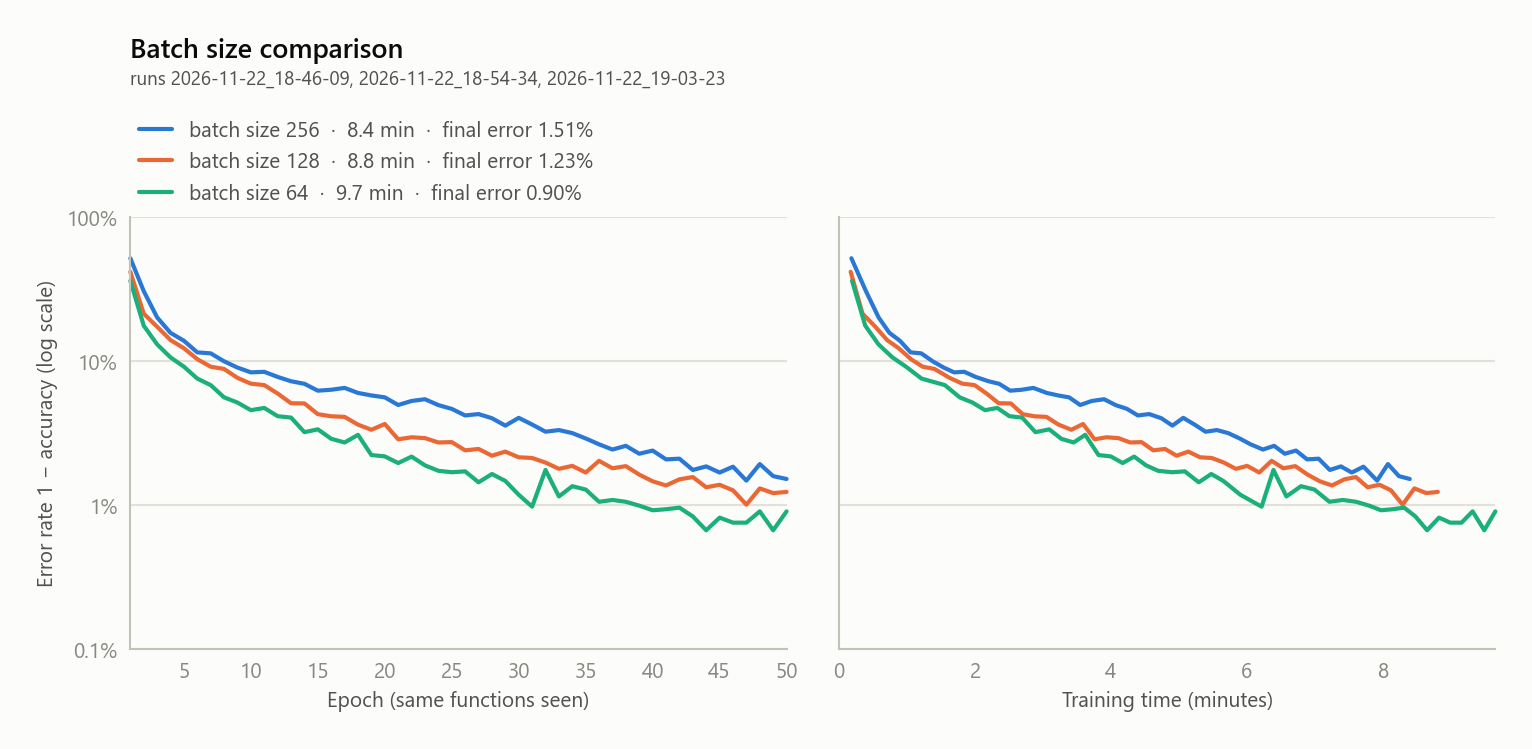
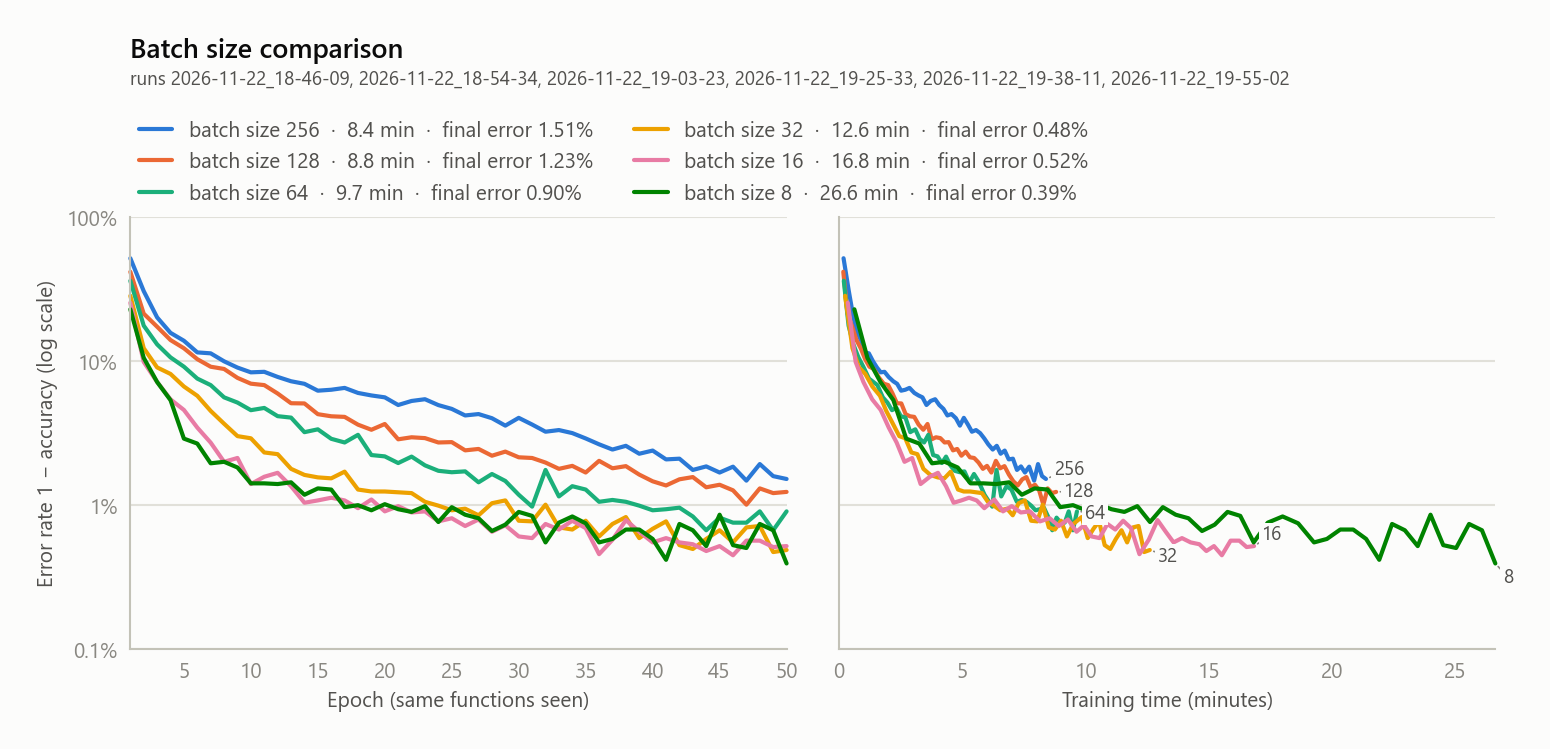
Add batch size runs 32, 16 and 8 to the comparison
Three more 50-epoch runs: 99.52% / 99.48% / 99.61% in the last epoch,
taking 12.6 / 16.8 / 26.6 minutes. Redraws the comparison chart with all
six batch sizes and extends the README table.

diff --git a/README.md b/README.md
@@ -213,24 +213,32 @@ with no drop of more than one percentage point between epochs. See
 
 ### Batch size comparison
 
-Three runs with batch sizes 256, 128 and 64. Everything else matched the third
+Six runs with batch sizes 256 down to 8. Everything else matched the third
 run: 50 epochs × 12,800 warped functions, learning rate 1e-3, seed 0. The
 batch-256 run reproduced the third run exactly (same loss and accuracy in
 every epoch).
 
-| Batch size | Steps | Time | ms per step | Last epoch | Best epoch | ≥ 98% after | ≥ 99% after |
-|---|---|---|---|---|---|---|---|
-| 256 | 2,500 | 8.4 min | 201 | 98.49% | 98.53% | 7.2 min | not reached |
-| 128 | 5,000 | 8.8 min | 106 | 98.77% | 99.00% | 5.7 min | 8.3 min |
-| 64 | 10,000 | 9.7 min | 58 | 99.10% | 99.34% | 4.2 min | 6.2 min |
+| Batch size | Steps | Time | ms per step | Last epoch | Best epoch | ≥ 98% after | ≥ 99% after | After 10 min |
+|---|---|---|---|---|---|---|---|---|
+| 256 | 2,500 | 8.4 min | 201 | 98.49% | 98.53% | 7.2 min | not reached | 98.49% (done) |
+| 128 | 5,000 | 8.8 min | 106 | 98.77% | 99.00% | 5.7 min | 8.3 min | 98.77% (done) |
+| 64 | 10,000 | 9.7 min | 58 | 99.10% | 99.34% | 4.2 min | 6.2 min | 99.10% (done) |
+| 32 | 20,000 | 12.6 min | 38 | 99.52% | 99.53% | 3.4 min | 6.3 min | 99.18% |
+| 16 | 40,000 | 16.8 min | 25 | 99.48% | 99.55% | 2.7 min | 5.9 min | 99.28% |
+| 8 | 80,000 | 26.6 min | 20 | 99.61% | 99.61% | 3.8 min | 9.0 min | 99.01% |
 
-Smaller batches give more updates from the same functions. On the UHD 620, a
-step costs much less with a small batch, so the runs take only a little longer.
-Batch size 64 is ahead both per epoch and per minute of training. Chart:
+Smaller batches give more updates from the same functions, and per epoch they
+learn faster all the way down to batch size 16. Below about 32, the time per
+step hardly shrinks any more (38 → 25 → 20 ms), so the runs get much longer.
+Per minute of training, batch size 16 is ahead. Batch size 8 learns about as
+much per epoch as 16, but is slower per minute. Chart:
 [`comparisons/batch_size.png`](comparisons/batch_size.png). Runs:
 [`runs/2026-11-22_18-46-09/`](runs/2026-11-22_18-46-09/) (256),
 [`runs/2026-11-22_18-54-34/`](runs/2026-11-22_18-54-34/) (128),
-[`runs/2026-11-22_19-03-23/`](runs/2026-11-22_19-03-23/) (64).
+[`runs/2026-11-22_19-03-23/`](runs/2026-11-22_19-03-23/) (64),
+[`runs/2026-11-22_19-25-33/`](runs/2026-11-22_19-25-33/) (32),
+[`runs/2026-11-22_19-38-11/`](runs/2026-11-22_19-38-11/) (16),
+[`runs/2026-11-22_19-55-02/`](runs/2026-11-22_19-55-02/) (8).
 
 ## License
 
